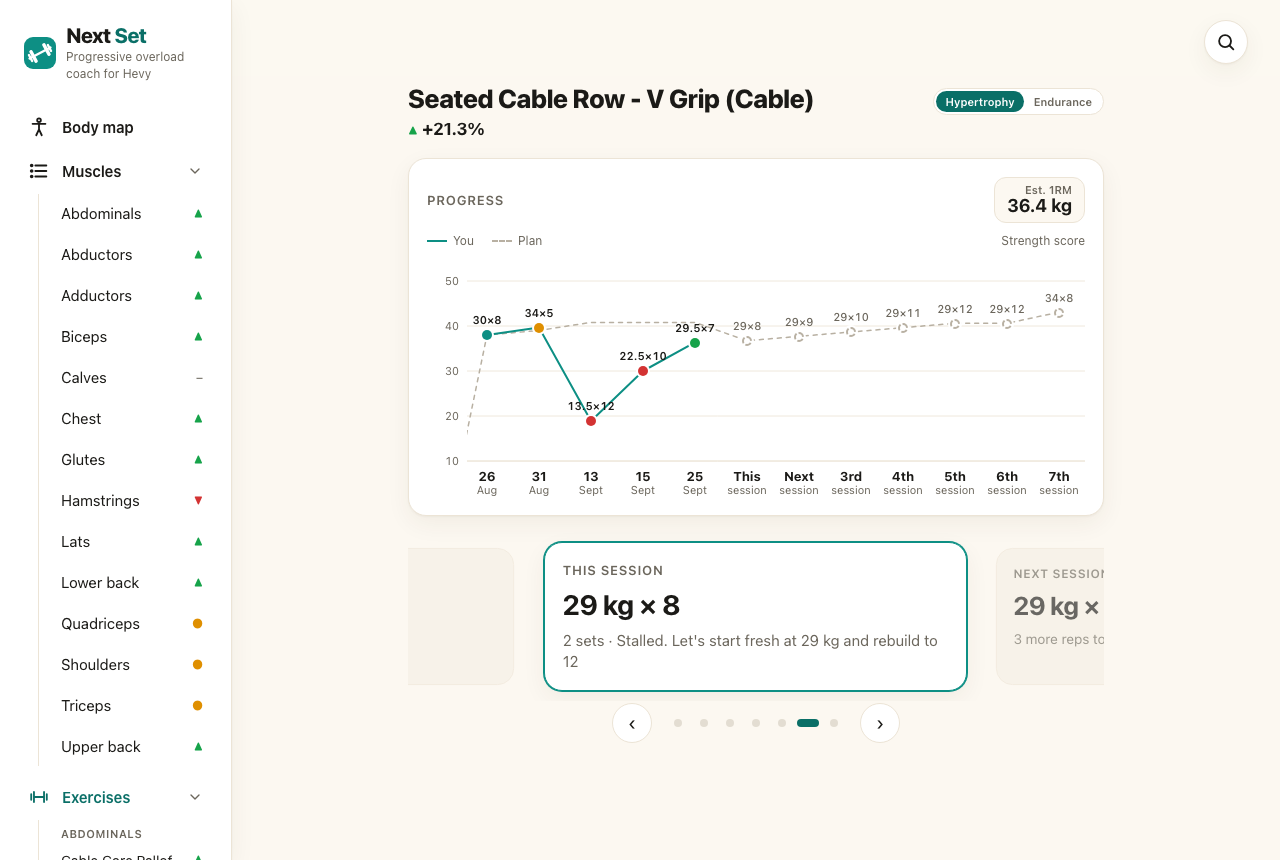
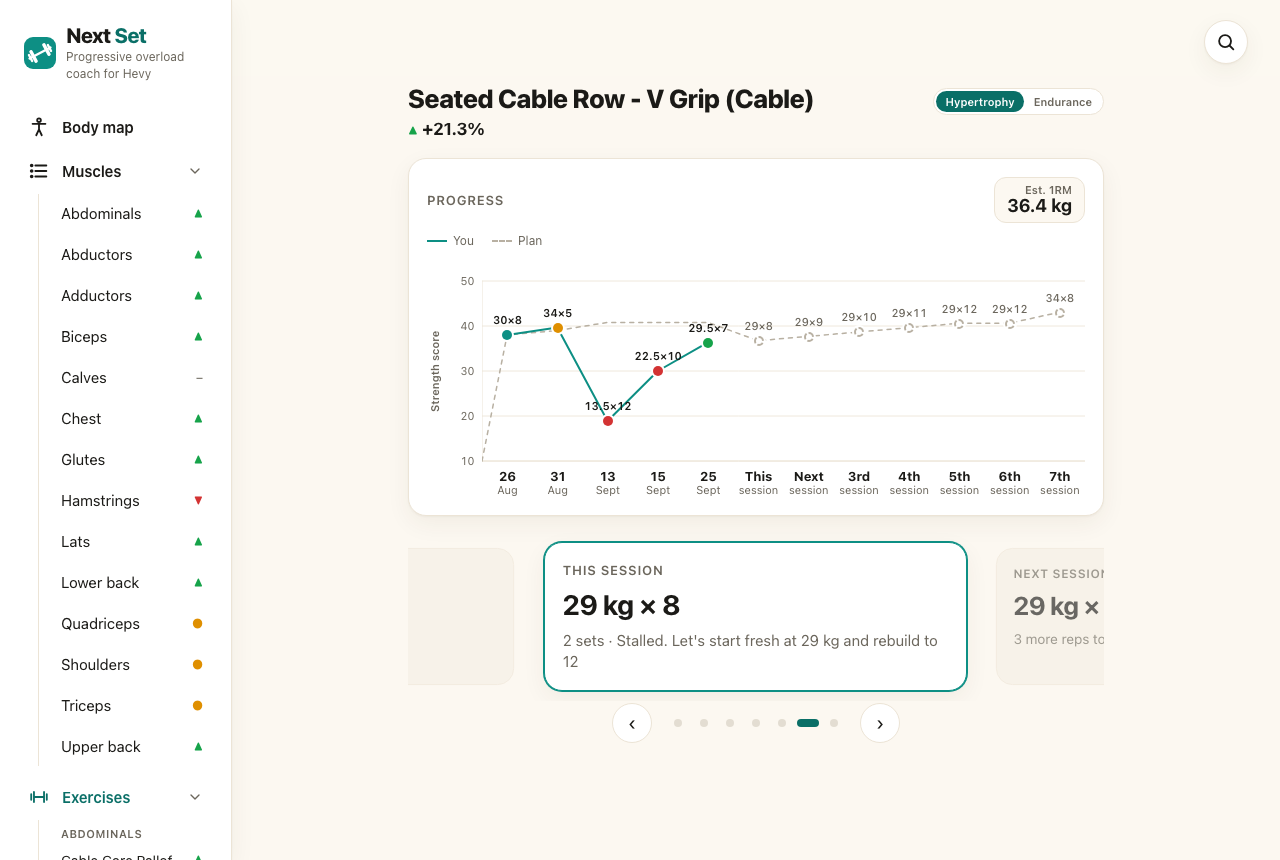
Strength score as a vertical y-axis title
It sat on its own at the end of the legend; it now runs up beside the
axis numbers, with the formula on hover. Columns narrow to 48 px so a
typical history plus the climb still fits on a laptop without scrolling.

diff --git a/frontend/src/charts/ColumnLineChart.tsx b/frontend/src/charts/ColumnLineChart.tsx
@@ -29,7 +29,9 @@ interface Props {
   height?: number
   invert?: boolean // lower is better: the scale flips so "up" always means progress
   zeroLine?: boolean // for changes: a baseline at 0, and a range balanced around it
-  yAxis?: { format: (value: number) => string } // value labels and gridlines on the left
+  // Value labels and gridlines on the left, with an optional title running up beside them
+  // (`hint` shows on hover).
+  yAxis?: { format: (value: number) => string; title?: string; hint?: string }
   highlight?: number // a column whose dot is drawn larger
   callout?: string // a short label above the highlighted column's top dot
   // Columns never get narrower than this (px): with more columns than fit, the plot
@@ -88,6 +90,11 @@ export function ColumnLineChart({
   return (
     <figure className={styles.figure} aria-label={label}>
       <div className={styles.chart} data-dot-labels={hasDotLabels || undefined}>
+        {yAxis?.title && (
+          <span className={styles.yTitle} style={{ height }} title={yAxis.hint} aria-hidden="true">
+            {yAxis.title}
+          </span>
+        )}
         {yAxis && (
           <div className={styles.yAxis} style={{ height }} aria-hidden="true">
             {ticks.map((t) => (

diff --git a/frontend/src/pages/ExercisePage.tsx b/frontend/src/pages/ExercisePage.tsx
@@ -181,11 +181,6 @@ function ProgressCard({
           <span className={styles.keyTarget} aria-hidden="true" />
           Plan
         </li>
-        {mode === 'load' && (
-          <li className={styles.legendNote} title={SCORE_EXPLAINED}>
-            Strength score
-          </li>
-        )}
       </ul>
       <ColumnLineChart
         label={`${axisName(mode)} by session`}
@@ -196,7 +191,10 @@ function ProgressCard({
         ]}
         dots={dots}
         invert={exercise.lower_is_better}
-        yAxis={{ format: (v) => `${mode === 'load' ? Math.round(v) : kg(v)}${axisUnit(mode)}` }}
+        yAxis={{
+          format: (v) => `${mode === 'load' ? Math.round(v) : kg(v)}${axisUnit(mode)}`,
+          ...(mode === 'load' && { title: 'Strength score', hint: SCORE_EXPLAINED }),
+        }}
         height={180}
         minColumnWidth={COLUMN_WIDTH}
         startAt={past.length}
@@ -206,7 +204,7 @@ function ProgressCard({
 }
 
 // Wide enough for a label like '31.5×12' over each point.
-const COLUMN_WIDTH = 52
+const COLUMN_WIDTH = 48
 // The plan's columns, from this session on.
 const AHEAD_NAMES = ['This', 'Next', '3rd']
 

diff --git a/frontend/src/pages/ExercisePage.test.tsx b/frontend/src/pages/ExercisePage.test.tsx
@@ -33,7 +33,7 @@ describe('exercise page', () => {
     expect(within(progress).getByRole('figure')).toHaveAccessibleName(
       'Strength score (weight and reps combined) by session',
     )
-    expect(within(progress).getByText('Strength score')).toBeInTheDocument() // in the legend
+    expect(within(progress).getByText('Strength score')).toHaveAttribute('title') // the y-axis title
     // A score, not a weight: the axis has no unit.
     expect(within(progress).queryAllByText(/^\d+ kg$/)).toEqual([])
     expect(within(progress).getAllByText(/^\d+$/).length).toBeGreaterThanOrEqual(3)

diff --git a/frontend/src/charts/ColumnLineChart.module.css b/frontend/src/charts/ColumnLineChart.module.css
@@ -11,6 +11,22 @@
   flex: 0 0 40px;
 }
 
+/* Reads bottom to top, centred on the plot. */
+.yTitle {
+  flex: 0 0 auto;
+  writing-mode: vertical-rl;
+  transform: rotate(180deg);
+  text-align: center;
+  font-size: 0.6875rem;
+  font-weight: 600;
+  color: var(--text-muted);
+  white-space: nowrap;
+}
+
+.yTitle[title] {
+  cursor: help;
+}
+
 .tick {
   position: absolute;
   right: 8px;
@@ -34,6 +50,7 @@
   padding-top: 20px;
 }
 
+.chart[data-dot-labels] .yTitle,
 .chart[data-dot-labels] .yAxis {
   margin-top: 20px;
 }

diff --git a/frontend/src/pages/ExercisePage.module.css b/frontend/src/pages/ExercisePage.module.css
@@ -109,12 +109,6 @@
   gap: 6px;
 }
 
-.legendNote {
-  margin-left: auto;
-  color: var(--text-muted);
-  cursor: help;
-}
-
 .keyActual,
 .keyTarget {
   width: 20px;

diff --git a/REQUIREMENTS.md b/REQUIREMENTS.md
@@ -206,7 +206,7 @@ exercises are still found through search.
   are scored the same way, so one more rep at the same weight still climbs. It has no "kg",
   because it isn't a weight; each point is labelled with what was (or will be) lifted, e.g.
   *29×8*. Other exercise types plot reps, seconds or assistance kg.
-- The plan runs past *This* and *Next* to the next weight. Columns are at least 52 px wide; when
+- The plan runs past *This* and *Next* to the next weight. Columns are at least 48 px wide; when
   they don't fit (phones, long histories), the plot scrolls sideways with the y-axis fixed,
   opening with *This session* in view.
 - Today / Then targets with one short line explaining the plan step.
